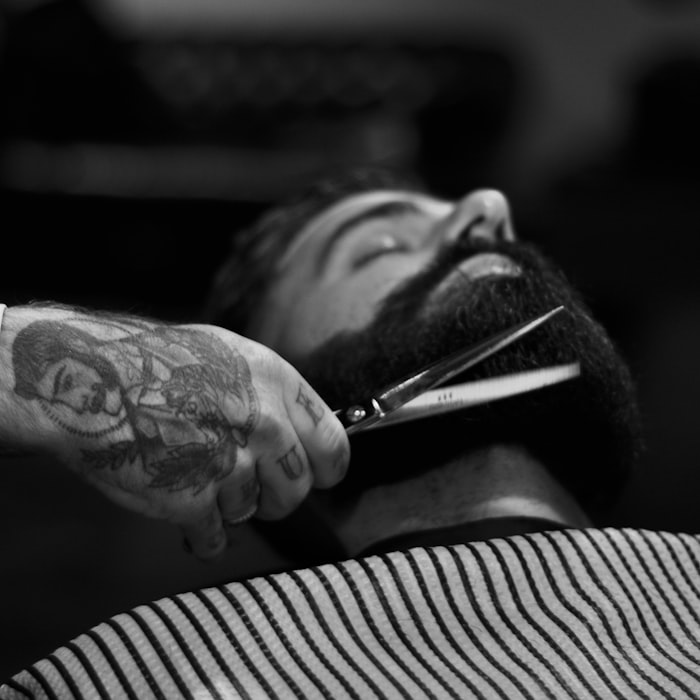
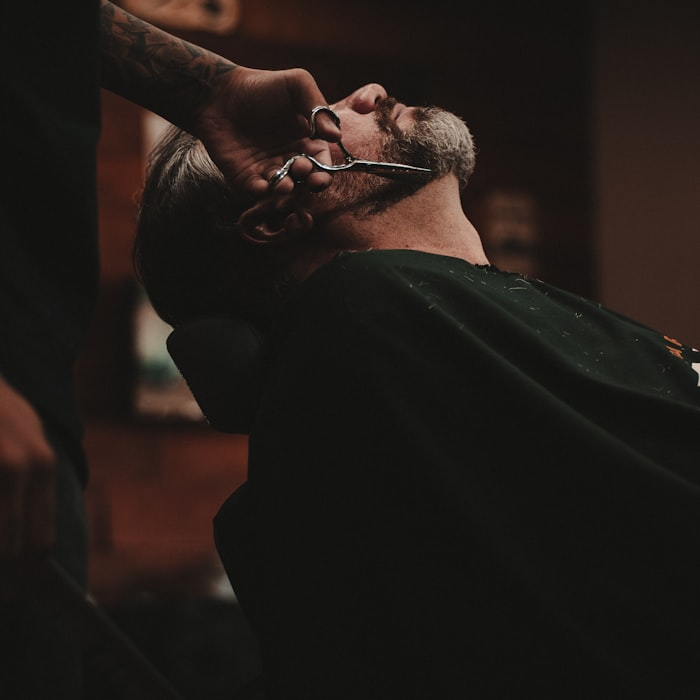
Галерея: цветные фото вместо ч/б, чтобы hover-эффект был виден

diff --git a/src/components/GallerySection.vue b/src/components/GallerySection.vue
@@ -4,14 +4,14 @@ import royalShave from '../assets/gallery/royal-shave.jpg'
 import clipper from '../assets/gallery/clipper.jpg'
 import beard from '../assets/gallery/beard.jpg'
 import fade from '../assets/gallery/fade.jpg'
-import kids from '../assets/gallery/kids.jpg'
+import atWork from '../assets/gallery/at-work.jpg'
 
 const works = [
   { photo: fade, label: 'Fade под машинку' },
   { photo: beard, label: 'Оформление бороды' },
   { photo: royalShave, label: 'Королевское бритьё' },
   { photo: clipper, label: 'Окантовка' },
-  { photo: kids, label: 'Детская стрижка' },
+  { photo: atWork, label: 'Мастер за работой' },
   { photo: interior, label: 'Наш зал' },
 ]
 </script>